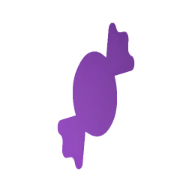
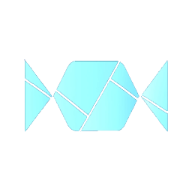
update branding

Changed region(s): [[0.125, 0.0938, 0.875, 0.9062]]

diff --git a/pages/_app.tsx b/pages/_app.tsx
@@ -2,11 +2,11 @@ import '../styles/globals.css'
 import { useState } from 'react'
 import type { AppProps } from 'next/app'
 import '@rainbow-me/rainbowkit/styles.css'
-import { getDefaultWallets, RainbowKitProvider } from '@rainbow-me/rainbowkit'
+import { getDefaultWallets, RainbowKitProvider, lightTheme } from '@rainbow-me/rainbowkit'
 import { chain, configureChains, createClient, WagmiConfig } from 'wagmi'
 import { infuraProvider } from 'wagmi/providers/infura'
 import { publicProvider } from 'wagmi/providers/public'
-import { ChakraProvider } from '@chakra-ui/react'
+import { ChakraProvider, extendTheme } from '@chakra-ui/react'
 import { Hydrate, QueryClient, QueryClientProvider } from '@tanstack/react-query'
 
 const { chains, provider } = configureChains(
@@ -25,13 +25,39 @@ const wagmiClient = createClient({
   provider,
 })
 
+const theme = extendTheme({
+  colors: {
+    brand: {
+      '50': '#E6FFFF',
+      '100': '#B8FEFE',
+      '200': '#8BFEFE',
+      '300': '#5EFDFD',
+      '400': '#30FDFD',
+      '500': '#03FCFC',
+      '600': '#02CACA',
+      '700': '#029797',
+      '800': '#016565',
+      '900': '#013232',
+    },
+  },
+})
+
 function MyApp({ Component, pageProps }: AppProps) {
   const [queryClient] = useState(() => new QueryClient())
 
   return (
-    <ChakraProvider>
+    <ChakraProvider theme={theme}>
       <WagmiConfig client={wagmiClient}>
-        <RainbowKitProvider chains={chains}>
+        <RainbowKitProvider
+          chains={chains}
+          coolMode={true}
+          theme={lightTheme({
+            accentColor: '#02CACA',
+            accentColorForeground: 'white',
+            borderRadius: 'none',
+            fontStack: 'system',
+          })}
+        >
           <QueryClientProvider client={queryClient}>
             <Hydrate state={pageProps.dehydratedState}>
               <Component {...pageProps} />

diff --git a/src/layout/Header.tsx b/src/layout/Header.tsx
@@ -1,11 +1,25 @@
-import { Flex, Box } from '@chakra-ui/react'
+import { useRouter } from 'next/router'
+import { Flex, Button } from '@chakra-ui/react'
 import { ConnectButton } from '@rainbow-me/rainbowkit'
+import Image from 'next/image'
 
 export default function Header() {
+  const router = useRouter()
   return (
     <Flex padding="0 10px" alignItems="center" justifyContent="space-between" minH="10vh">
-      <Box fontWeight="semibold">Wrappr</Box>
-      <ConnectButton />
+      <Image src={'/logo.png'} height={60} width={80} />
+      <Flex gap="15px">
+        <Button
+          onClick={() => router.push('/create')}
+          maxW="fit-content"
+          colorScheme={'brand'}
+          variant="outline"
+          borderRadius={'none'}
+        >
+          Create
+        </Button>
+        <ConnectButton />
+      </Flex>
     </Flex>
   )
 }

diff --git a/pages/index.tsx b/pages/index.tsx
@@ -12,9 +12,6 @@ const Home: NextPage = ({ wrapprs }: InferGetServerSidePropsType<typeof getServe
   return (
     <Layout heading="Home" content="Wrap anything" back={false}>
       <Flex direction="column" gap={5} marginRight={[2, 4, 6, 8]} marginLeft={[2, 4, 6, 8]} alignItems={'flex-end'}>
-        <Button onClick={() => router.push('/create')} maxW="fit-content">
-          Create
-        </Button>
         <SimpleGrid columns={[1, 2, 3, 4]} spacing={10}>
           {wrapprs.map((wrappr) => (
             <WrapprCard key={wrappr['id']} wrappr={wrappr} />

diff --git a/src/wrap/WrapprCard.tsx b/src/wrap/WrapprCard.tsx
@@ -30,10 +30,10 @@ export default function WrapprCard({ wrappr }) {
         </Text>
       </Flex>
       <Button
-        variant="outline"
+        variant="solid"
+        colorScheme={'brand'}
         onClick={() => router.push(`/wrappr/4/${wrappr['id']}`)}
         borderTopRadius={0}
-        background="gray.300"
         width={'100%'}
       >
         Expand

diff --git a/src/layout/index.tsx b/src/layout/index.tsx
@@ -30,6 +30,7 @@ export default function Layout({ heading, content, back, children }: LayoutProps
         {back && (
           <Button
             variant="ghost"
+            colorScheme={'brand'}
             leftIcon={<MdOutlineArrowBack />}
             onClick={() => router.back()}
             marginLeft={[2, 4, 6, 8]}

diff --git a/styles/globals.css b/styles/globals.css
@@ -1,5 +1,6 @@
 html,
 body {
+  background-color: black;
   padding: 0;
   margin: 0;
   font-family: -apple-system, BlinkMacSystemFont, Segoe UI, Roboto, Oxygen,
